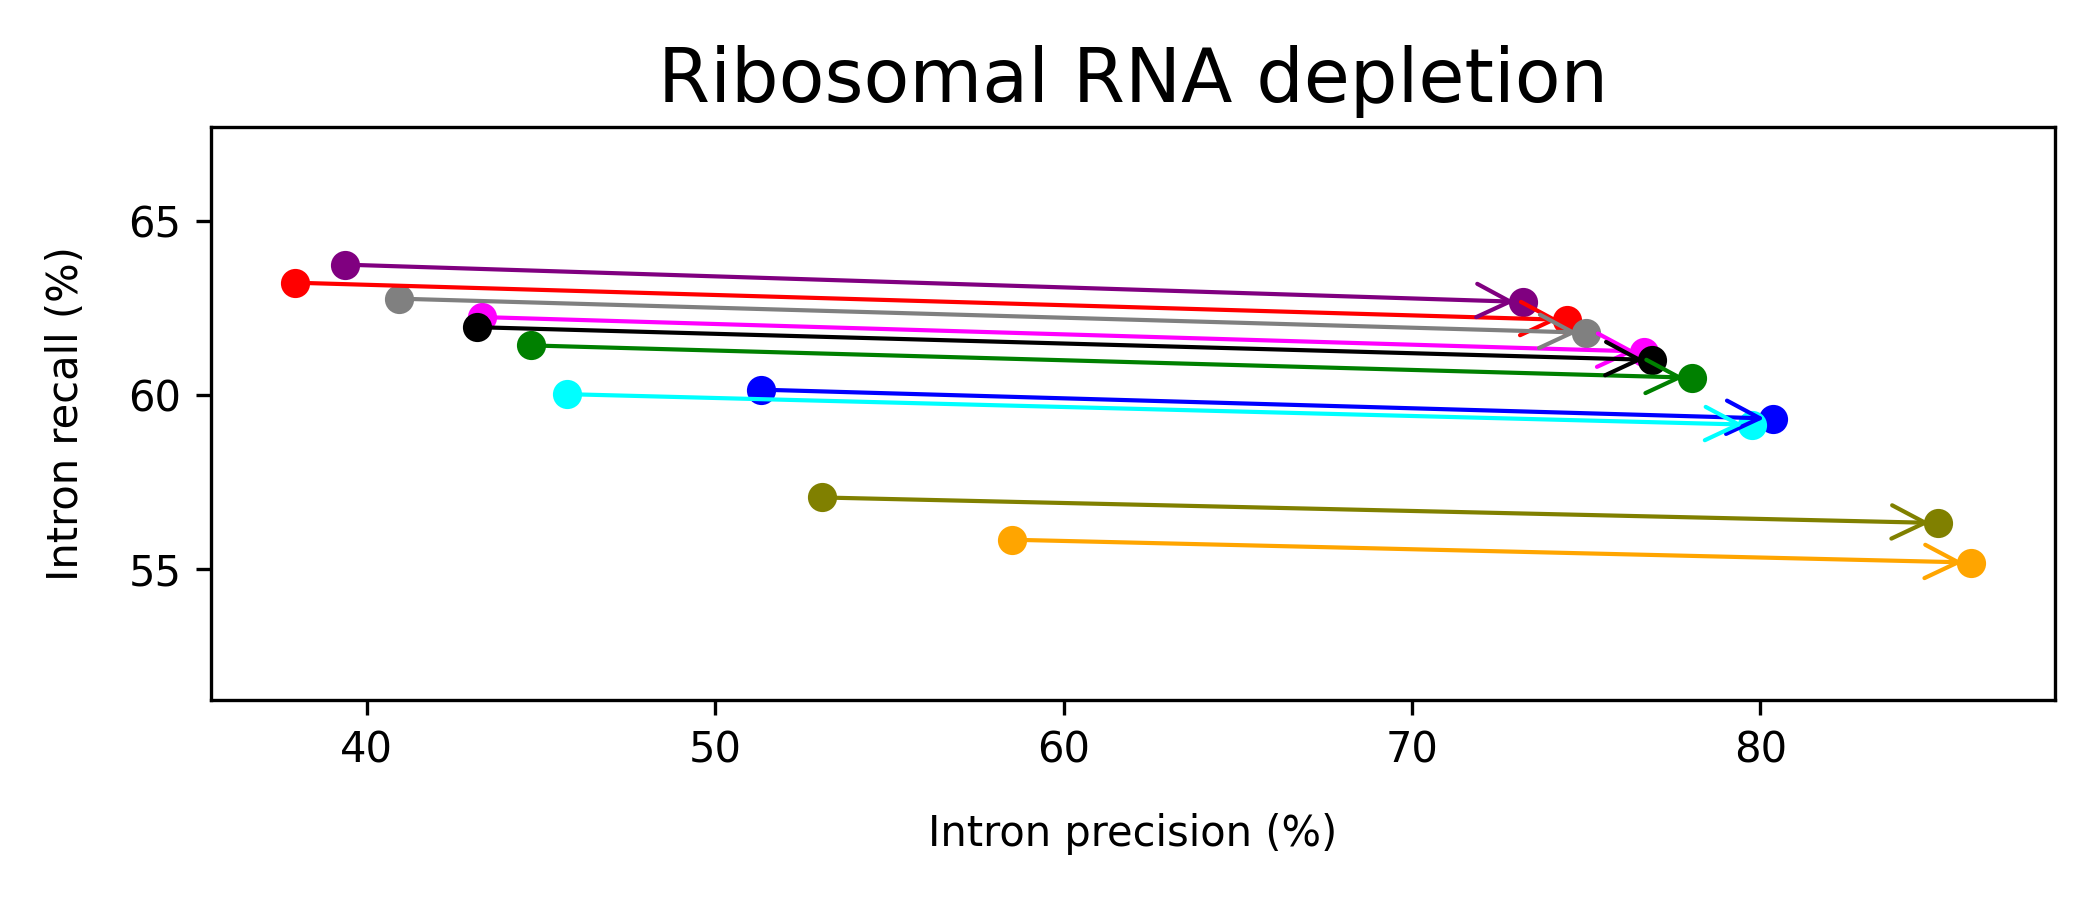
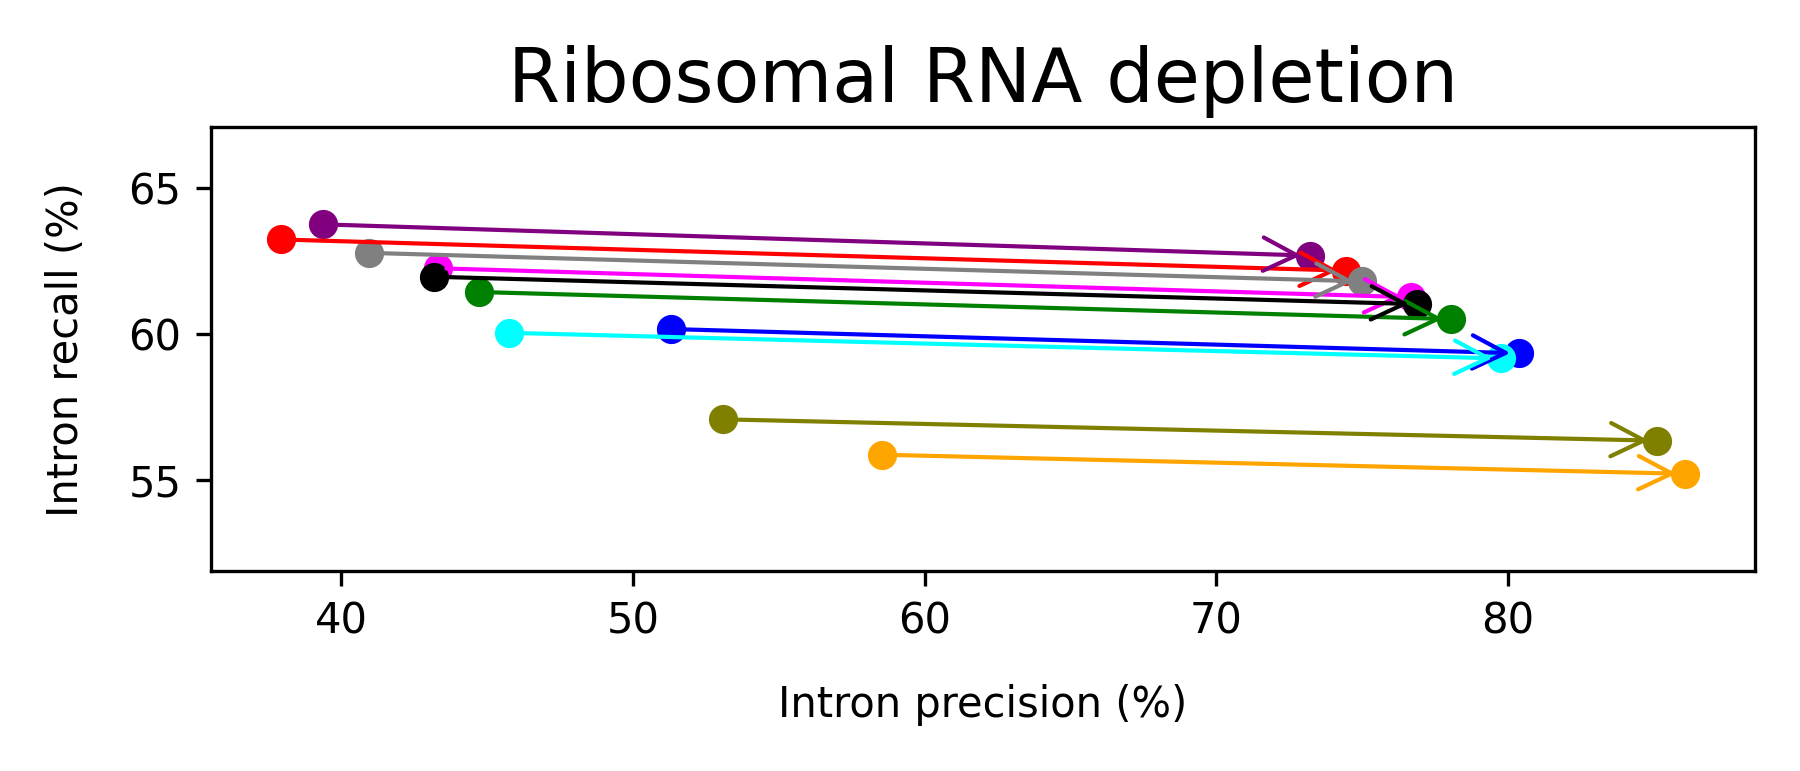
Update Figure 5

Changed region(s): [[0.0, 0.0311, 0.9956, 0.8405], [0.4356, 0.8716, 0.6533, 0.965]]

diff --git a/Figures/Figure_5/plot_intron_s_p.py b/Figures/Figure_5/plot_intron_s_p.py
@@ -14,7 +14,7 @@ for library in ["polyA", "ribozero"]:
 
         rowname = list (after_df.index)
         print("rowname: ", rowname)
-        plt.figure(figsize=(7, 3))  # Adjust the width and height as desired
+        plt.figure(figsize=(6, 2.57))  # Adjust the width and height as desired
 
         for sample_id in range(10):
             sample = rowname[sample_id]
